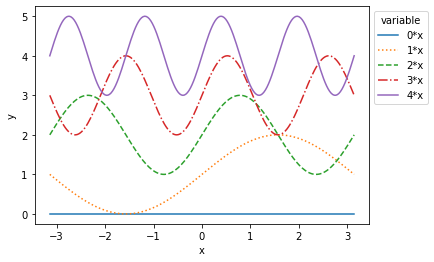
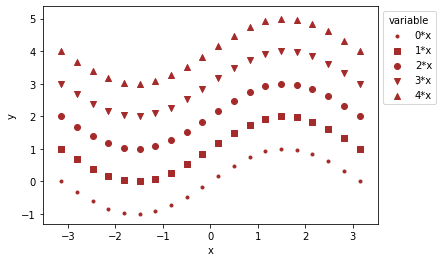
scatter

diff --git a/scripts/plotting/basic.py b/scripts/plotting/basic.py
@@ -5,7 +5,7 @@
 # 
 # 
 
-# In[2]:
+# In[15]:
 
 
 import numpy as np
@@ -16,7 +16,7 @@ import matplotlib.pyplot as plt
 # 
 # Let's plot a few sine functions with different line types; we assign a label to each trace, which can be displayed in a legend.
 
-# In[3]:
+# In[16]:
 
 
 x = np.linspace(-np.pi,np.pi, 200)
@@ -34,15 +34,14 @@ plt.show()
 
 # ## Scatter plot
 
-# In[4]:
+# In[34]:
 
 
-x = np.linspace(-np.pi,np.pi, 200)
+x = np.linspace(-np.pi,np.pi, 20)
 
-lts = ['-',':','--','-.','-']
-
+marker = ["." , ",", "o", "v", "^"]
 for i in range(5):
-    plt.plot(x, np.sin(i*x)+i,lts[i],label="{0}*x".format(i))
+    plt.scatter(x, np.sin(x)+i, c = 'brown', marker=marker[i], label="{0}*x".format(i))
     
 plt.ylabel("y")
 plt.xlabel("x")
@@ -126,4 +125,4 @@ fig.show(renderer='png')
 #        y=m['value']))
 
 
-# _Download this page [as a Jupyter notebook](https://github.com/vuw-scps/python-physics/raw/master/notebooks/plotting/line.ipynb) or as a [standalone Python script](https://github.com/vuw-scps/python-physics/raw/master/scripts/plotting/line.py)._
+# _Download this page [as a Jupyter notebook](https://github.com/vuw-scps/python-physics/raw/master/notebooks/plotting/basic.ipynb) or as a [standalone Python script](https://github.com/vuw-scps/python-physics/raw/master/scripts/plotting/basic.py)._

diff --git a/docs/plotting/basic.md b/docs/plotting/basic.md
@@ -35,12 +35,11 @@ plt.show()
 
 
 ```python
-x = np.linspace(-np.pi,np.pi, 200)
+x = np.linspace(-np.pi,np.pi, 20)
 
-lts = ['-',':','--','-.','-']
-
+marker = ["." , ",", "o", "v", "^"]
 for i in range(5):
-    plt.plot(x, np.sin(i*x)+i,lts[i],label="{0}*x".format(i))
+    plt.scatter(x, np.sin(x)+i, c = 'brown', marker=marker[i], label="{0}*x".format(i))
     
 plt.ylabel("y")
 plt.xlabel("x")
@@ -323,4 +322,4 @@ if (outputEl) {{
         </div>
 
 
-_Download this page [as a Jupyter notebook](https://github.com/vuw-scps/python-physics/raw/master/notebooks/plotting/line.ipynb) or as a [standalone Python script](https://github.com/vuw-scps/python-physics/raw/master/scripts/plotting/line.py)._
+_Download this page [as a Jupyter notebook](https://github.com/vuw-scps/python-physics/raw/master/notebooks/plotting/basic.ipynb) or as a [standalone Python script](https://github.com/vuw-scps/python-physics/raw/master/scripts/plotting/basic.py)._
